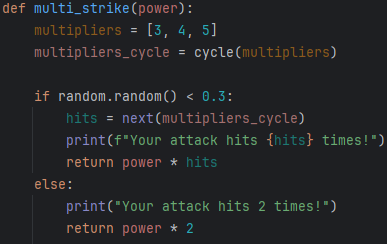
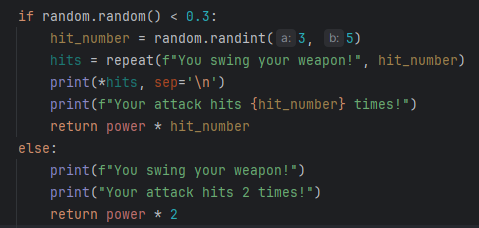
Refactor multi-strike to use repeat. Update balance and README.md

diff --git a/game.py b/game.py
@@ -4,7 +4,8 @@ A00942129
 """
 import json
 import sys
-
+from unittest.mock import patch
+from itertools import count
 from character import (
     get_character_inventory,
     get_character_stats,
@@ -46,6 +47,12 @@ from utility import (
 def start_menu():
     """
     Display the start menu with a choice of starting a new game, loading a game, or quitting.
+
+    :param: N/A
+    :precondition: user must start the program
+    :postcondition: displays the start menu and prompts the user to make a choice
+    :postcondition: calls the game function, load_game function, or exits the program
+    :return: a call to the game function, load_game function, or exits the program
     """
 
     while True:
@@ -81,6 +88,18 @@ def start_menu():
 def save_game(character):
     """
     Save the current game state to a JSON file.
+
+    This function takes the current game state, represented by the character dictionary, and saves it to a JSON file.
+    The JSON file is named "save.json" and is saved in the same directory as the game.py file. The JSON file is
+    formatted with indentation of 4 spaces.
+
+    :param character: a dictionary representing the current game state.
+    :precondition: character must be a valid dictionary.
+    :precondition: character must be alive with greater than 0 HP.
+    :postcondition: saves the game state to a JSON file.
+    :postcondition: prints a message to the console indicating that the game was saved successfully.
+    :return: a JSON file named "save.json" containing the current game state.
+    :return: a string indicating that the game was saved successfully.
     """
     with open("save.json", "w") as game_file:
         json.dump(character, game_file, indent=4)
@@ -91,6 +110,17 @@ def save_game(character):
 def load_game():
     """
     Load an existing game and continue.
+
+    This function loads a saved game state from a JSON file named "save.json".
+
+
+    :param: N/A
+    :precondition: "save.json" file should exist if there is a saved game.
+    :precondition: "save.json" file should be formatted correctly.
+    :postcondition: loads the game state from the JSON file.
+    :postcondition: prints a message to the console indicating that the game was loaded successfully.
+    :return: a call to the game function.
+    :return: a string indicating that the game was loaded successfully.
     """
     try:
         with open("save.json", "r") as game_file:
@@ -114,6 +144,29 @@ def get_user_choice(rows, columns, character, board):
     :precondition: character must not be in the winning room
     :postcondition: prompts user to choose a direction and returns the input as a string
     :return: returns a string consisting of "up", "down", "left", or "right"
+
+    >>> character_test = {"X-coordinate": 0, "Y-coordinate": 0}
+    >>> with patch('builtins.input', return_value='2'):
+    ...     get_user_choice(5, 5, character_test, {(0, 0): "Starting Room"})
+    xX------------------------------------------------------Xx
+    1. Up
+    2. Down
+    3. Left
+    4. Right
+    xX------------------------------------------------------Xx
+    You chose to go down...
+    'down'
+
+    >>> with patch('builtins.input', return_value='4'):
+    ...     get_user_choice(5, 5, character_test, {(0, 0): "Starting Room"})
+    xX------------------------------------------------------Xx
+    1. Up
+    2. Down
+    3. Left
+    4. Right
+    xX------------------------------------------------------Xx
+    You chose to go right...
+    'right'
     """
     while True:
         draw()
@@ -181,20 +234,19 @@ def get_user_choice(rows, columns, character, board):
 
 def combat_loop(character, foe):
     """
-    Conduct the combat loop between the character and a foe.
+    Handle the combat loop between the character and a foe.
 
     :param character: a non-empty dictionary representing the player character
     :param foe: a non-empty dictionary representing the foe
     :precondition: character must be alive with greater than 0 HP
     :precondition: foe must be alive with greater than 0 HP
     :postcondition: conducts the combat loop until either the character or the foe is defeated
-    :return: returns True if the character wins, otherwise False
-
-    # >>> combat_loop({'X-coordinate': 0, 'Y-coordinate': 0, 'Current HP': 5, 'Attack': 1, 'Armour': 0},
-    # ... {'Name': 'Goblin', 'Attack': 2, 'Current HP': 10},
-    # ... {(0, 0): "Starting Room", (1, 0): "Empty Room"})
-    # True
-    Dunno how to test yet. @patch?
+    :postcondition: prints the result of the combat loop
+    :postcondition: updates the character's inventory and experience points
+    :postcondition: calls the battle_rewards function
+    :postcondition: calls the level_up function if the conditions are met
+    :return: updates the character's inventory and experience points
+    :return: True if the character wins, otherwise False if the character loses
     """
     while is_alive(character) and is_alive(foe):
 
@@ -333,7 +385,20 @@ def combat_loop(character, foe):
 
 def game(character=None):
     """
-    Initialize the game
+    Initialize and run the game.
+
+    This function sets up the game board and character, then enters the main game loop. It will ask the player for
+    input to move the character around the board, and will call other functions to handle combat, inventory, and
+    other game mechanics. The game will end when the character's health drops to 0 or the win condition is met.
+
+    :param character: a dictionary representing the player character. If None, a new character is created.
+    :precondition: if the character is provided, must be a dictionary with stats and inventory.
+    :precondition: character must be alive with greater than 0 HP.
+    :postcondition: runs the game until the character's health drops to 0 or the win condition is met.
+    :postcondition: prints a message to the console indicating that the game is over.
+    :postcondition: prints a message to the console indicating that the character has won the game.
+    :return: a string indicating that the game is over.
+    :return: a string indicating that the character has won the game.
     """
     achieved_goal = False
 

diff --git a/enemy.py b/enemy.py
@@ -42,12 +42,12 @@ def generate_foe():
     >>> with patch('random.choice', return_value='Goblin'):
     ...     generate_foe()
     {'Name': 'Goblin', 'Attack': 1, 'Current HP': 3, 'Defence': 0, 'Gold': 5, 'Experience Points': 5,\
- 'Loot': {'Cheap Trinket': {'Price': 8, 'Type': 'Miscellaneous'}}}
+ 'Loot': {'Cheap Trinket': {'Price': 10, 'Type': 'Miscellaneous'}}}
 
     >>> with patch('random.choice', return_value='Orc'):
     ...     generate_foe()
     {'Name': 'Orc', 'Attack': 2, 'Current HP': 6, 'Defence': 1, 'Gold': 10, 'Experience Points': 10,\
- 'Loot': {'Cheap Trinket': {'Price': 8, 'Type': 'Miscellaneous'}}}
+ 'Loot': {'Cheap Trinket': {'Price': 10, 'Type': 'Miscellaneous'}}}
     """
     foe_types = ["Goblin", "Orc", "Skeleton", "Ghoul"]
     random_foe = random.choice(foe_types)
@@ -61,7 +61,7 @@ def generate_foe():
             "Gold": 5,
             "Experience Points": 5,
             "Loot": {
-                "Cheap Trinket": {"Price": 8, "Type": "Miscellaneous"},
+                "Cheap Trinket": {"Price": 10, "Type": "Miscellaneous"},
             }
         }
     elif random_foe == "Orc":
@@ -73,7 +73,7 @@ def generate_foe():
             "Gold": 10,
             "Experience Points": 10,
             "Loot": {
-                "Cheap Trinket": {"Price": 8, "Type": "Miscellaneous"},
+                "Cheap Trinket": {"Price": 10, "Type": "Miscellaneous"},
             }
         }
     elif random_foe == "Skeleton":
@@ -85,7 +85,7 @@ def generate_foe():
             "Gold": 5,
             "Experience Points": 5,
             "Loot": {
-                "Cheap Trinket": {"Price": 8, "Type": "Miscellaneous"},
+                "Cheap Trinket": {"Price": 10, "Type": "Miscellaneous"},
             }
         }
     elif random_foe == "Ghoul":
@@ -97,7 +97,7 @@ def generate_foe():
             "Gold": 5,
             "Experience Points": 10,
             "Loot": {
-                "Cheap Trinket": {"Price": 8, "Type": "Miscellaneous"},
+                "Cheap Trinket": {"Price": 10, "Type": "Miscellaneous"},
             }
         }
 
@@ -118,13 +118,13 @@ def generate_stronger_foe():
     ...     generate_stronger_foe()
     {'Name': 'Hobgoblin', 'Attack': 5, 'Current HP': 8, 'Defence': 1, 'Ability': {'Reckless Attack': {'Power': 2,\
  'Description': 'The Hobgoblin is charging at you!'}}, 'Gold': 10, 'Experience Points': 10,\
- 'Loot': {'Rare Relic': {'Price': 16, 'Type': 'Miscellaneous'}}}
+ 'Loot': {'Rare Relic': {'Price': 20, 'Type': 'Miscellaneous'}}}
 
     >>> with patch('random.choice', return_value='High Orc'):
     ...     generate_stronger_foe()
     {'Name': 'High Orc', 'Attack': 7, 'Current HP': 16, 'Defence': 2, 'Ability': {'Spear Throw': {'Power': 4,\
  'Description': 'The High Orc aims its spear at you!'}}, 'Gold': 20, 'Experience Points': 20,\
- 'Loot': {'Rare Relic': {'Price': 16, 'Type': 'Miscellaneous'}}}
+ 'Loot': {'Rare Relic': {'Price': 20, 'Type': 'Miscellaneous'}}}
     """
     foe_types = ["Hobgoblin", "High Orc", "Iron-Clad Skeleton", "Draugr", "Wyvern"]
     random_foe = random.choice(foe_types)
@@ -141,7 +141,7 @@ def generate_stronger_foe():
             "Gold": 10,
             "Experience Points": 10,
             "Loot": {
-                "Rare Relic": {"Price": 16, "Type": "Miscellaneous"},
+                "Rare Relic": {"Price": 20, "Type": "Miscellaneous"},
             }
         }
     elif random_foe == "High Orc":
@@ -156,7 +156,7 @@ def generate_stronger_foe():
             "Gold": 20,
             "Experience Points": 20,
             "Loot": {
-                "Rare Relic": {"Price": 16, "Type": "Miscellaneous"},
+                "Rare Relic": {"Price": 20, "Type": "Miscellaneous"},
             }
         }
     elif random_foe == "Iron-Clad Skeleton":
@@ -171,7 +171,7 @@ def generate_stronger_foe():
             "Gold": 10,
             "Experience Points": 20,
             "Loot": {
-                "Rare Relic": {"Price": 16, "Type": "Miscellaneous"},
+                "Rare Relic": {"Price": 20, "Type": "Miscellaneous"},
             }
         }
     elif random_foe == "Draugr":
@@ -186,7 +186,7 @@ def generate_stronger_foe():
             "Gold": 10,
             "Experience Points": 20,
             "Loot": {
-                "Rare Relic": {"Price": 16, "Type": "Miscellaneous"},
+                "Rare Relic": {"Price": 20, "Type": "Miscellaneous"},
             }
         }
     elif random_foe == "Wyvern":
@@ -201,7 +201,7 @@ def generate_stronger_foe():
             "Gold": 20,
             "Experience Points": 30,
             "Loot": {
-                "Rare Relic": {"Price": 16, "Type": "Miscellaneous"},
+                "Rare Relic": {"Price": 20, "Type": "Miscellaneous"},
             }
         }
 

diff --git a/combat.py b/combat.py
@@ -1,10 +1,10 @@
 import random
-from itertools import cycle
 from utility import (
     clear,
     draw,
 )
 from unittest.mock import patch
+from itertools import repeat
 
 
 def enemy_attack(character, foe):
@@ -174,22 +174,29 @@ def multi_strike(power):
     :return: an integer representing the total power of the 'Multi-Strike' ability
     :return: the number of hits
 
-    >>> multi_strike(2)
+
+    >>> with patch('random.random', return_value=0.8):
+    ...     multi_strike(2)
+    You swing your weapon!
     Your attack hits 2 times!
     4
 
-    >>> with patch('random.random', return_value=0.2):
+    >>> with patch('random.random', return_value=0.2), patch('random.randint', return_value=4):
     ...     multi_strike(2)
-    Your attack hits 3 times!
-    6
+    You swing your weapon!
+    You swing your weapon!
+    You swing your weapon!
+    You swing your weapon!
+    Your attack hits 4 times!
+    8
     """
-    multipliers = [3, 4, 5]
-    multipliers_cycle = cycle(multipliers)
-
     if random.random() < 0.3:
-        hits = next(multipliers_cycle)
-        print(f"Your attack hits {hits} times!")
-        return power * hits
+        hit_number = random.randint(3, 5)
+        hits = repeat(f"You swing your weapon!", hit_number)
+        print(*hits, sep='\n')
+        print(f"Your attack hits {hit_number} times!")
+        return power * hit_number
     else:
+        print(f"You swing your weapon!")
         print("Your attack hits 2 times!")
         return power * 2

diff --git a/character.py b/character.py
@@ -9,7 +9,7 @@ def make_character():
 
     >>> make_character()
     {'X-coordinate': 0, 'Y-coordinate': 0, 'Max HP': 10, 'Current HP': 10, 'Max AP': 5, 'Ability Points': 5,\
- 'Attack': 1, 'Defence': 0, 'Abilities': {'1': {'Name': 'Power Strike', 'Power': 2, 'AP Cost': 1}},\
+ 'Attack': 2, 'Defence': 0, 'Abilities': {'1': {'Name': 'Power Strike', 'Power': 2, 'AP Cost': 1}},\
  'Inventory': {'1': {'Name': 'Bronze Sword', 'Power': 0, 'Type': 'Weapon'}, '2': {'Name': 'Clothes',\
  'Power': 0, 'Type': 'Armour'}}, 'Gold': 0, 'Level': 1, 'Experience Points': 0, 'EXP to Level Up': 10,\
  'Stronger Enemies': False}
@@ -21,7 +21,7 @@ def make_character():
         "Current HP": 10,
         "Max AP": 5,
         "Ability Points": 5,
-        "Attack": 1,
+        "Attack": 2,
         "Defence": 0,
         "Abilities": {
             "1": {"Name": "Power Strike", "Power": 2, "AP Cost": 1},

diff --git a/loot.py b/loot.py
@@ -333,7 +333,7 @@ def visit_shop(character):
         elif choice == "3":
             clear()
             draw()
-            print("1. Health Potion $5\n2. AP Potion $10")
+            print("1. Health Potion $10\n2. AP Potion $10")
             draw()
             potion_choice = input("Enter the number of the potion you want to buy: ")
 

diff --git a/README.md b/README.md
@@ -47,6 +47,6 @@ Best played in Terminal due to the clear() function.
 | Random Module             | ![img_6.png](readme_pics/img_6.png)<br/>check_for_foes() in enemy.py             |
 | Function Annotations      | ![img_14.png](readme_pics/img_14.png)<br/>draw_box() in utility.py               |
 | Doctests & Unit Tests     | ![img_20.png](readme_pics/img_20.png)<br/>Tests folder                           |
-| F-String Usage            | ![img_21.png](readme_pics/img_21.png)<br/>enemy_attack() in combat.py            |
+| F-String Usage            | ![img_21.png](readme_pics/img_21.png)<br/>enemy_attack() in combat.py            |        
 
 ## Notes:
